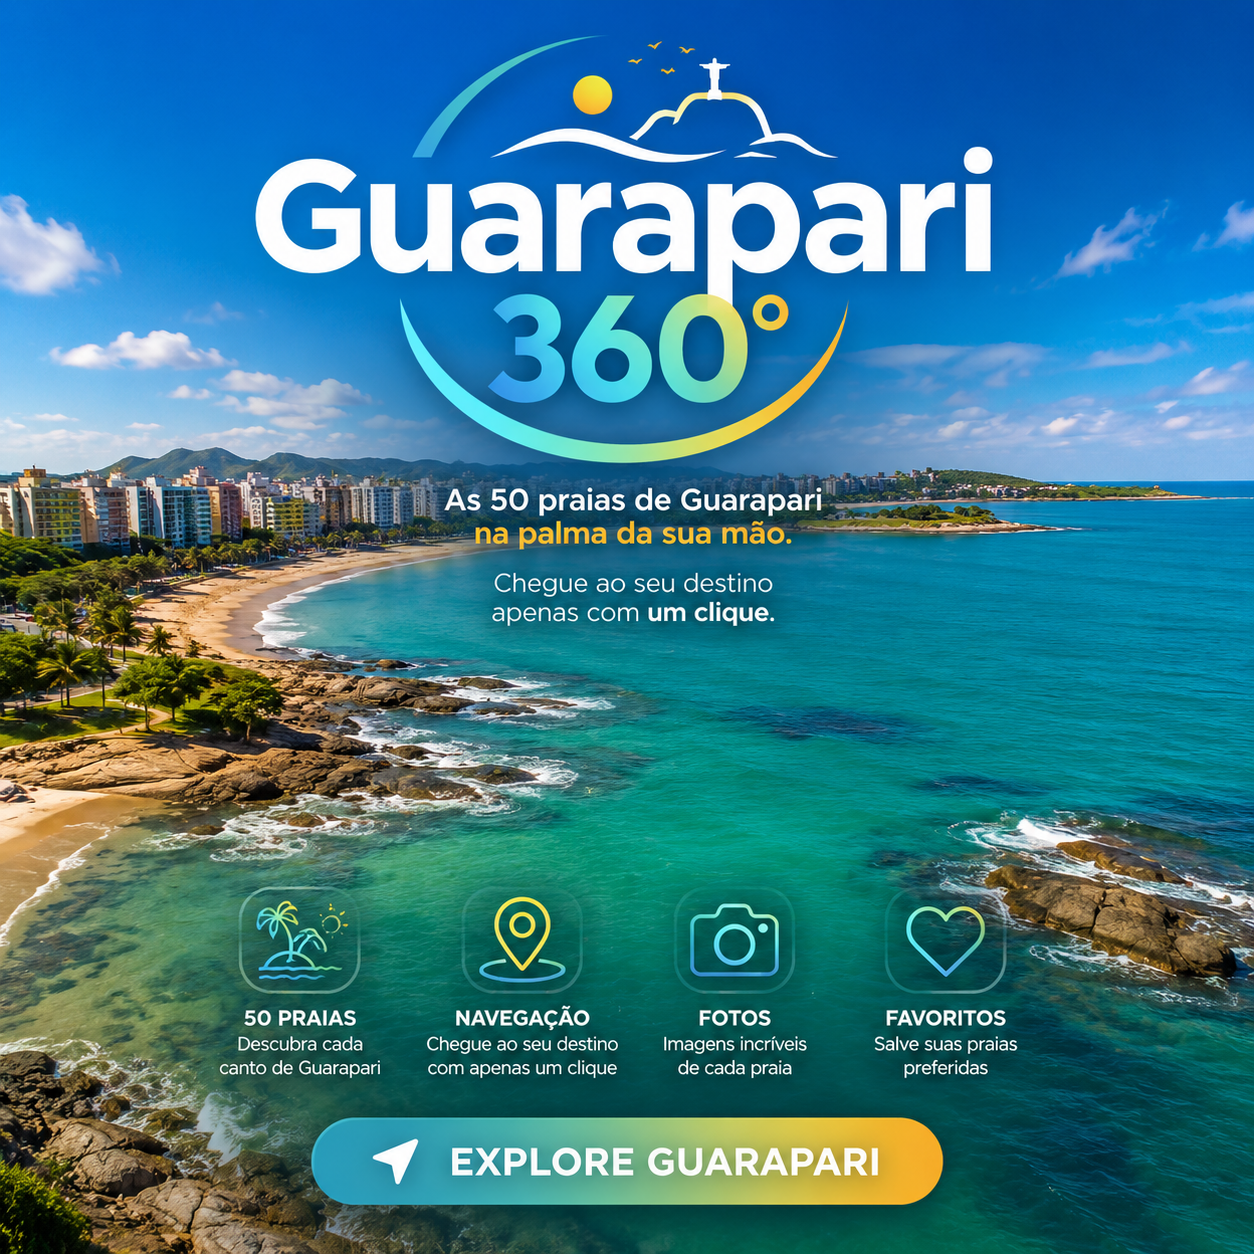
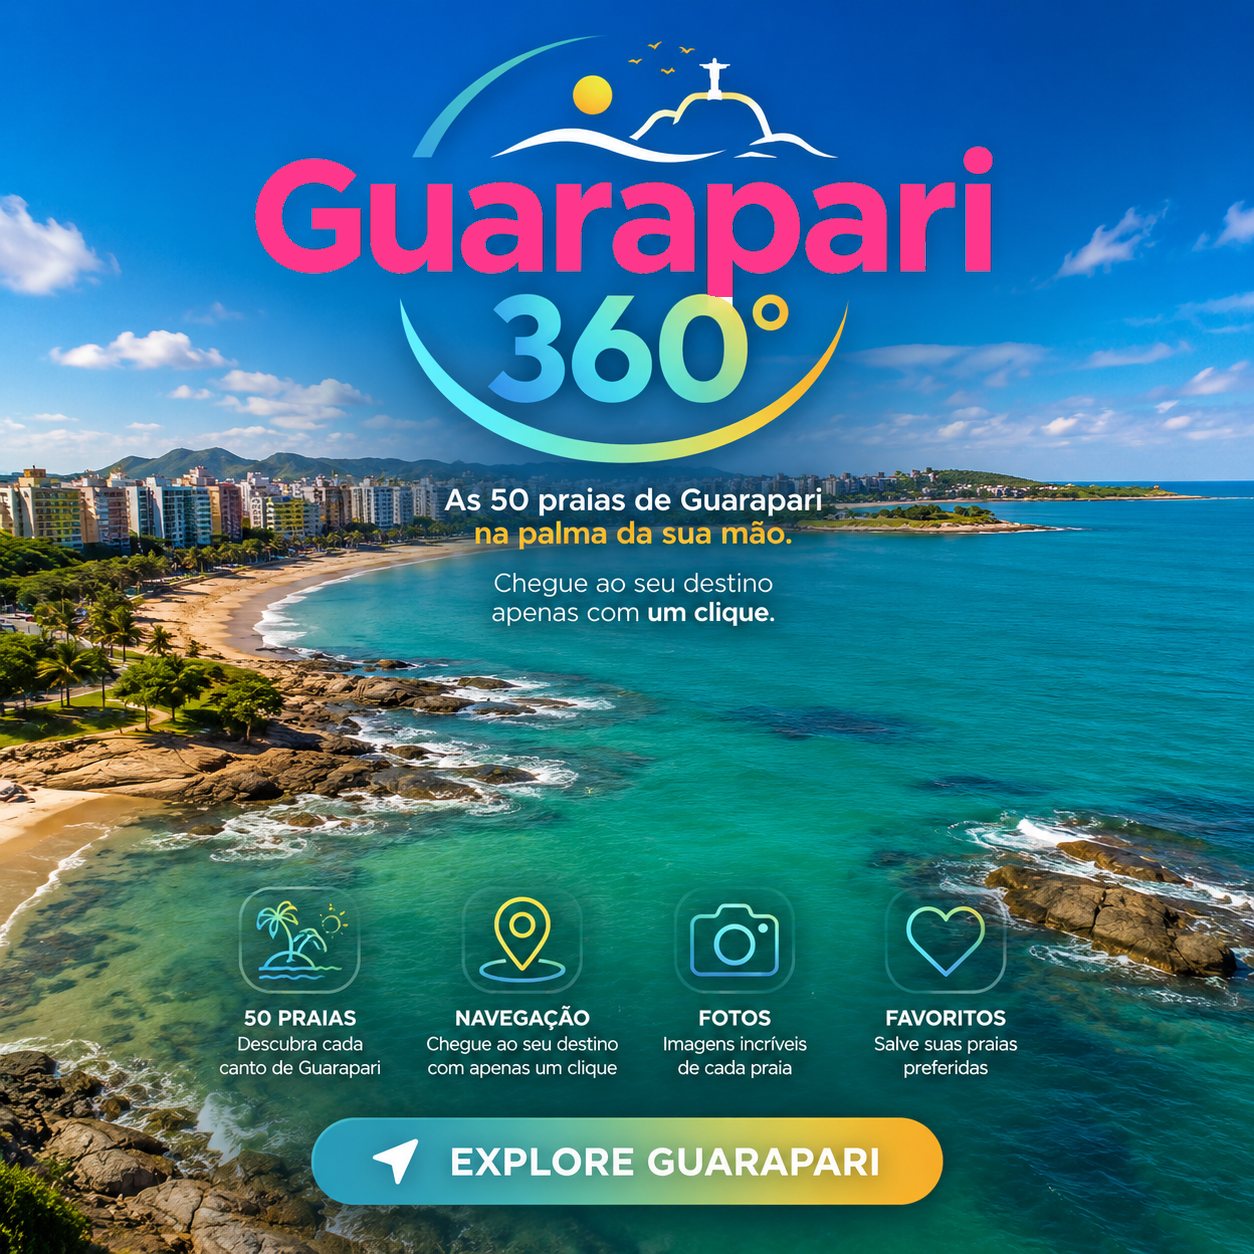
Alterar cor da letra Guarapari no topo para rosa

Changed region(s): [[0.1866, 0.1244, 0.8086, 0.2488]]

diff --git a/app/auth/login.tsx b/app/auth/login.tsx
@@ -1,4 +1,4 @@
 import { zodResolver } from '@hookform/resolvers/zod'; import { router } from 'expo-router'; import { useState } from 'react'; import { Controller, useForm } from 'react-hook-form'; import { Alert, Pressable, StyleSheet, Text, TextInput, View } from 'react-native'; import { SafeAreaView } from 'react-native-safe-area-context'; import { z } from 'zod'; import { auth } from '@/src/lib/auth'; import { colors, radius } from '@/src/theme';
 const schema=z.object({email:z.string().email('Informe um e-mail válido.'),password:z.string().min(8,'A senha precisa ter 8 caracteres.')});type Form=z.infer<typeof schema>;
 export default function Login(){const [loading,setLoading]=useState(false);const {control,handleSubmit,formState:{errors}}=useForm<Form>({resolver:zodResolver(schema),defaultValues:{email:'',password:''}});const submit=handleSubmit(async(values)=>{try{setLoading(true);const {error}=await auth.signIn(values.email,values.password);if(error)throw error;router.replace('/(tabs)/perfil')}catch(e){Alert.alert('Não foi possível entrar',e instanceof Error?e.message:'Tente novamente.')}finally{setLoading(false)}});return <SafeAreaView style={s.safe}><View style={s.content}><Text style={s.brand}>GUARAPARI 360°</Text><Text style={s.title}>Que bom ter você aqui.</Text><Field control={control} name="email" placeholder="E-mail" error={errors.email?.message}/><Field control={control} name="password" placeholder="Senha" secureTextEntry error={errors.password?.message}/><Pressable onPress={()=>router.push('/auth/recuperar-senha')}><Text style={s.link}>Esqueci minha senha</Text></Pressable><Pressable style={s.primary} onPress={submit} disabled={loading}><Text style={s.primaryText}>{loading?'Entrando...':'Entrar'}</Text></Pressable><Social label="Continuar com Google" onPress={()=>auth.signInWithProvider('google').catch((e)=>Alert.alert('Login social',e.message))}/><Pressable onPress={()=>router.push('/auth/cadastro')}><Text style={s.footer}>Ainda não tem uma conta? <Text style={s.link}>Criar conta</Text></Text></Pressable></View></SafeAreaView>}
-function Field({control,name,placeholder,secureTextEntry,error}:{control:ReturnType<typeof useForm<Form>>['control'];name:keyof Form;placeholder:string;secureTextEntry?:boolean;error?:string}){return <View><Controller control={control} name={name} render={({field:{value,onChange,onBlur}})=><TextInput style={s.input} value={value} onChangeText={onChange} onBlur={onBlur} placeholder={placeholder} secureTextEntry={secureTextEntry} autoCapitalize="none"/>}/>{error&&<Text style={s.error}>{error}</Text>}</View>}function Social({label,onPress}:{label:string;onPress:()=>void}){return <Pressable style={s.social} onPress={onPress}><Text style={s.socialText}>{label}</Text></Pressable>};const s=StyleSheet.create({safe:{flex:1,backgroundColor:colors.surface},content:{padding:24,gap:12},brand:{color:colors.ocean,fontWeight:'900',letterSpacing:1,marginTop:18},title:{fontSize:30,fontWeight:'900',color:colors.ink,marginBottom:18},input:{backgroundColor:'white',borderWidth:1,borderColor:colors.line,borderRadius:radius.sm,padding:15,fontSize:16},error:{color:'#B42318',fontSize:12,marginTop:4},link:{color:colors.ocean,fontWeight:'800'},primary:{backgroundColor:colors.ocean,borderRadius:radius.pill,padding:16,alignItems:'center',marginTop:8},primaryText:{color:'white',fontWeight:'900'},social:{borderWidth:1,borderColor:colors.line,borderRadius:radius.pill,padding:14,alignItems:'center'},socialText:{fontWeight:'800',color:colors.ink},footer:{textAlign:'center',color:colors.muted,marginTop:10}});
+function Field({control,name,placeholder,secureTextEntry,error}:{control:ReturnType<typeof useForm<Form>>['control'];name:keyof Form;placeholder:string;secureTextEntry?:boolean;error?:string}){return <View><Controller control={control} name={name} render={({field:{value,onChange,onBlur}})=><TextInput style={s.input} value={value} onChangeText={onChange} onBlur={onBlur} placeholder={placeholder} secureTextEntry={secureTextEntry} autoCapitalize="none"/>}/>{error&&<Text style={s.error}>{error}</Text>}</View>}function Social({label,onPress}:{label:string;onPress:()=>void}){return <Pressable style={s.social} onPress={onPress}><Text style={s.socialText}>{label}</Text></Pressable>};const s=StyleSheet.create({safe:{flex:1,backgroundColor:colors.surface},content:{padding:24,gap:12},brand:{color:'#FF358B',fontWeight:'900',letterSpacing:1,marginTop:18},title:{fontSize:30,fontWeight:'900',color:colors.ink,marginBottom:18},input:{backgroundColor:'white',borderWidth:1,borderColor:colors.line,borderRadius:radius.sm,padding:15,fontSize:16},error:{color:'#B42318',fontSize:12,marginTop:4},link:{color:colors.ocean,fontWeight:'800'},primary:{backgroundColor:colors.ocean,borderRadius:radius.pill,padding:16,alignItems:'center',marginTop:8},primaryText:{color:'white',fontWeight:'900'},social:{borderWidth:1,borderColor:colors.line,borderRadius:radius.pill,padding:14,alignItems:'center'},socialText:{fontWeight:'800',color:colors.ink},footer:{textAlign:'center',color:colors.muted,marginTop:10}});

diff --git a/app/assinatura.tsx b/app/assinatura.tsx
@@ -1,2 +1,2 @@
 import * as Linking from 'expo-linking'; import { useQuery } from '@tanstack/react-query'; import { Pressable, StyleSheet, Text, View } from 'react-native'; import { SafeAreaView } from 'react-native-safe-area-context'; import { getMySubscription, hasPremium, startCheckout } from '@/src/lib/subscription'; import { colors, radius } from '@/src/theme';
-export default function SubscriptionScreen(){const{data}=useQuery({queryKey:['subscription'],queryFn:getMySubscription});const premium=hasPremium(data??null);const buy=async()=>{const url=await startCheckout();await Linking.openURL(url)};return <SafeAreaView style={s.safe}><View style={s.content}><Text style={s.eyebrow}>GUARAPARI 360° PREMIUM</Text><Text style={s.title}>{premium?'Sua experiência está liberada.':'Viaje com mais possibilidades.'}</Text><Text style={s.price}>R$ 29,90 <Text style={s.month}>/ mês</Text></Text><View style={s.card}>{['Roteiros inteligentes ilimitados','Diário e checklist sincronizados','Alertas e novidades exclusivas','Acesso em todos os seus dispositivos'].map(x=><Text key={x} style={s.item}>✓  {x}</Text>)}</View>{premium?<Text style={s.status}>Ativo até {data?.current_period_end?new Date(data.current_period_end).toLocaleDateString('pt-BR'):'nova confirmação'}</Text>:<Pressable style={s.button} onPress={buy}><Text style={s.buttonText}>Assinar agora</Text></Pressable>}</View></SafeAreaView>};const s=StyleSheet.create({safe:{flex:1,backgroundColor:colors.surface},content:{padding:24,gap:18},eyebrow:{fontWeight:'900',color:colors.ocean,letterSpacing:1},title:{fontWeight:'900',fontSize:32,color:colors.ink},price:{fontSize:30,fontWeight:'900',color:colors.ink},month:{fontSize:15,color:colors.muted},card:{backgroundColor:'white',borderRadius:radius.md,padding:20,gap:15},item:{color:colors.ink,fontWeight:'700'},button:{backgroundColor:colors.coral,borderRadius:radius.pill,padding:16,alignItems:'center'},buttonText:{color:'white',fontWeight:'900'},status:{color:colors.ocean,fontWeight:'800'}});
+export default function SubscriptionScreen(){const{data}=useQuery({queryKey:['subscription'],queryFn:getMySubscription});const premium=hasPremium(data??null);const buy=async()=>{const url=await startCheckout();await Linking.openURL(url)};return <SafeAreaView style={s.safe}><View style={s.content}><Text style={s.eyebrow}>GUARAPARI 360° PREMIUM</Text><Text style={s.title}>{premium?'Sua experiência está liberada.':'Viaje com mais possibilidades.'}</Text><Text style={s.price}>R$ 29,90 <Text style={s.month}>/ mês</Text></Text><View style={s.card}>{['Roteiros inteligentes ilimitados','Diário e checklist sincronizados','Alertas e novidades exclusivas','Acesso em todos os seus dispositivos'].map(x=><Text key={x} style={s.item}>✓  {x}</Text>)}</View>{premium?<Text style={s.status}>Ativo até {data?.current_period_end?new Date(data.current_period_end).toLocaleDateString('pt-BR'):'nova confirmação'}</Text>:<Pressable style={s.button} onPress={buy}><Text style={s.buttonText}>Assinar agora</Text></Pressable>}</View></SafeAreaView>};const s=StyleSheet.create({safe:{flex:1,backgroundColor:colors.surface},content:{padding:24,gap:18},eyebrow:{fontWeight:'900',color:'#FF358B',letterSpacing:1},title:{fontWeight:'900',fontSize:32,color:colors.ink},price:{fontSize:30,fontWeight:'900',color:colors.ink},month:{fontSize:15,color:colors.muted},card:{backgroundColor:'white',borderRadius:radius.md,padding:20,gap:15},item:{color:colors.ink,fontWeight:'700'},button:{backgroundColor:colors.coral,borderRadius:radius.pill,padding:16,alignItems:'center'},buttonText:{color:'white',fontWeight:'900'},status:{color:colors.ocean,fontWeight:'800'}});
